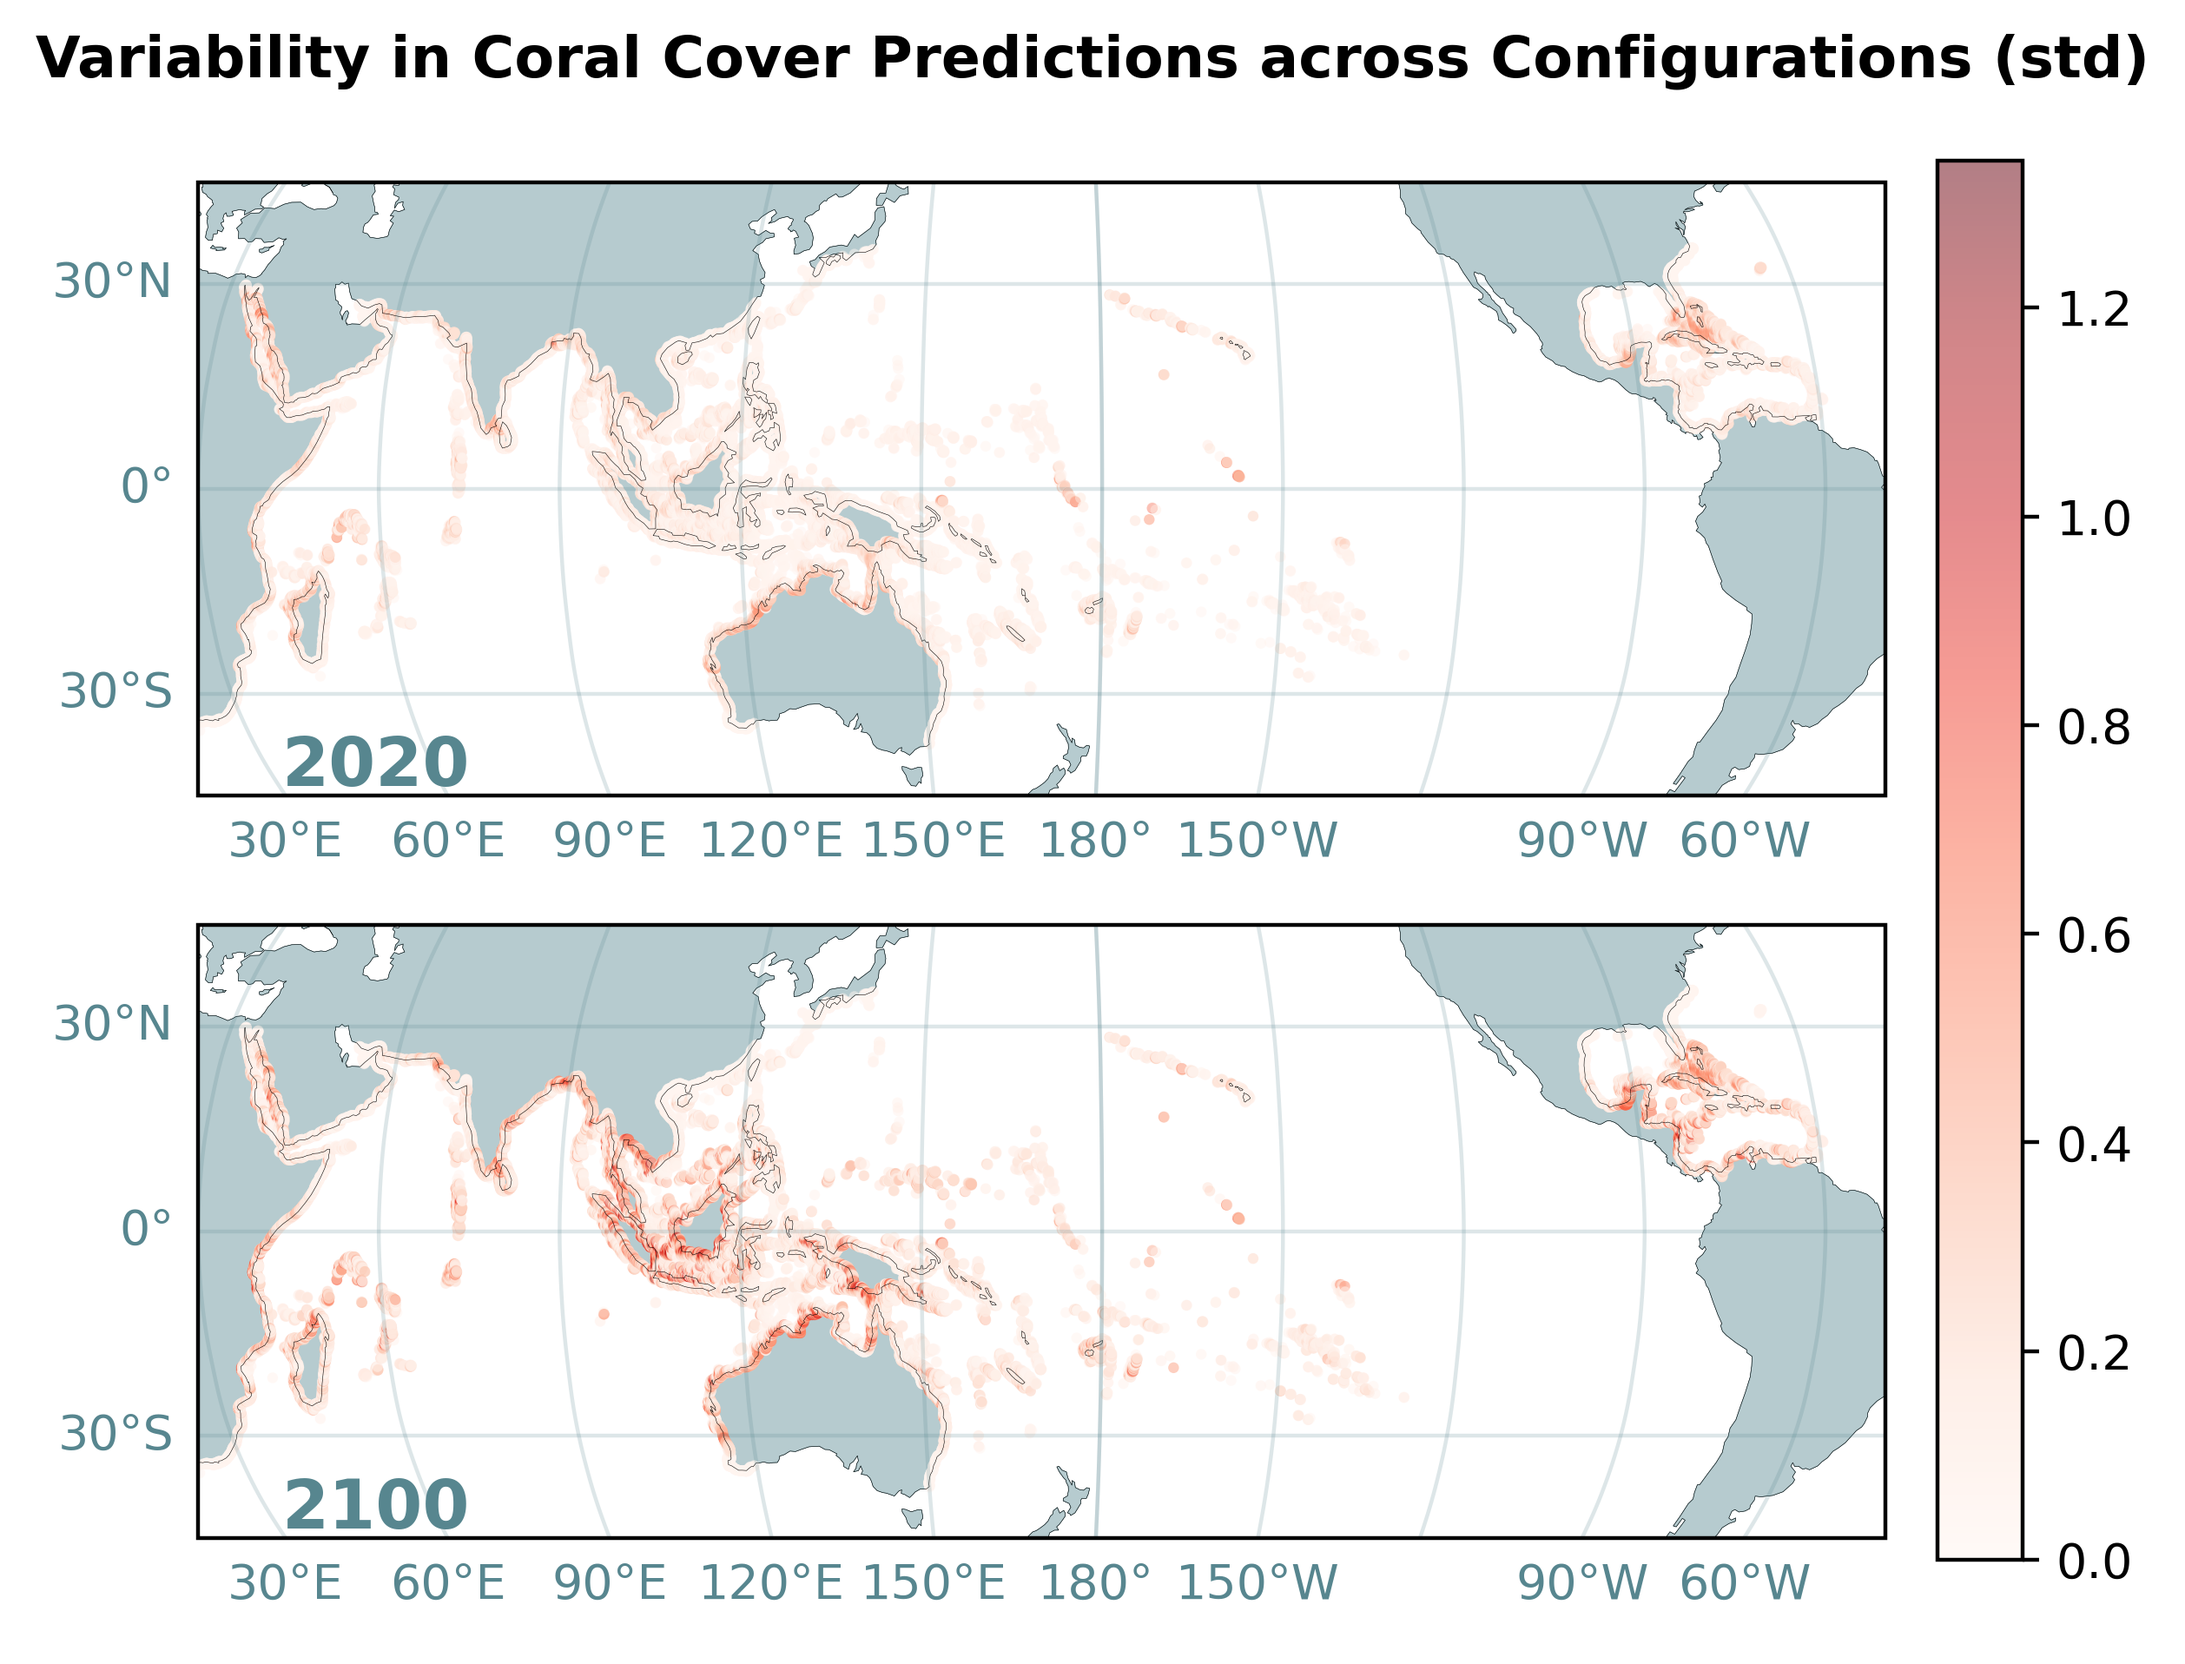
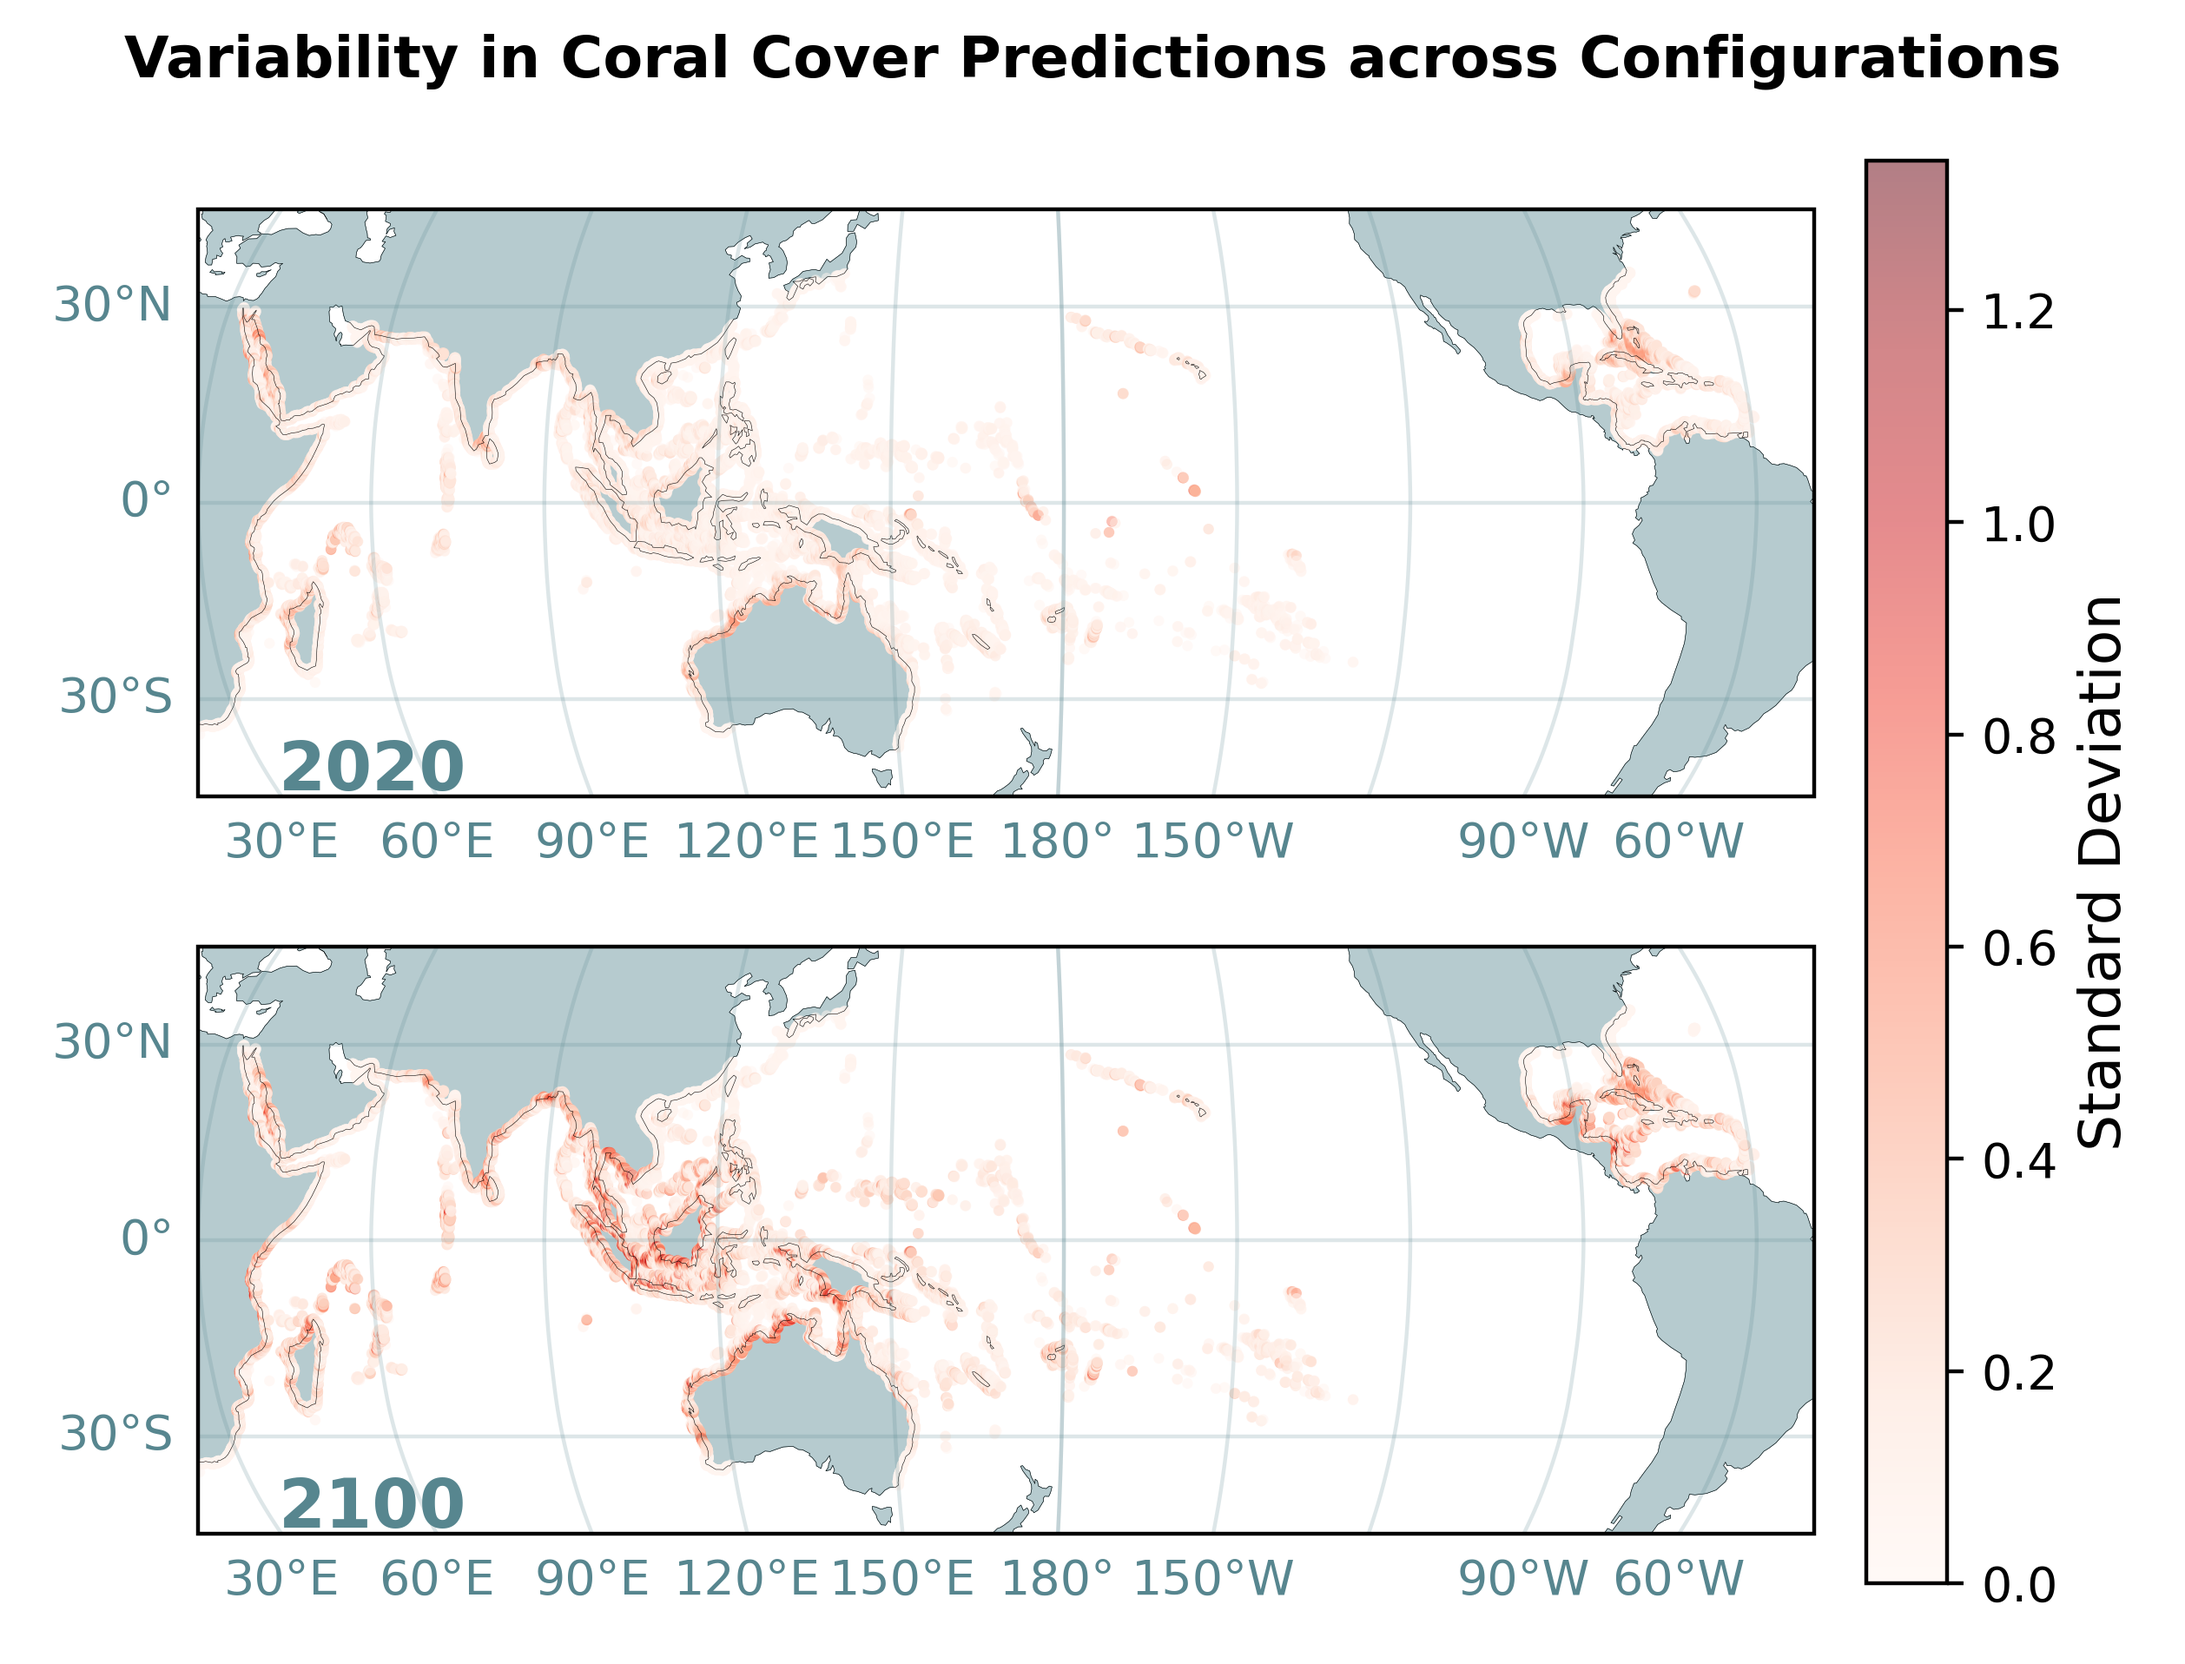
change labels

Changed region(s): [[0.031, 0.0924, 0.9921, 0.9854], [0.0, 0.0, 0.9921, 0.0616], [0.062, 0.2771, 0.093, 0.3079]]

diff --git a/dataprocess.py b/dataprocess.py
@@ -96,12 +96,12 @@ for i in range(2):
     )
 
 # 添加圖表的總標題
-f.suptitle("Variability in Coral Cover Predictions across Configurations (std)", fontsize=12, fontweight='bold')
+f.suptitle("Variability in Coral Cover Predictions across Configurations", fontsize=12, fontweight='bold')
 
 # 添加統一的顏色條，位於右側
 cax = f.add_subplot(gs[:, 1])  # 使用 GridSpec 的右側欄位作為顏色條的位置
 cbar = plt.colorbar(scatter, cax=cax, orientation='vertical')
-
+cbar.set_label("Standard Deviation", fontsize=12)
 
 # 保存圖像到 output 資料夾，設定 dpi=400
 output_dir = "output"
